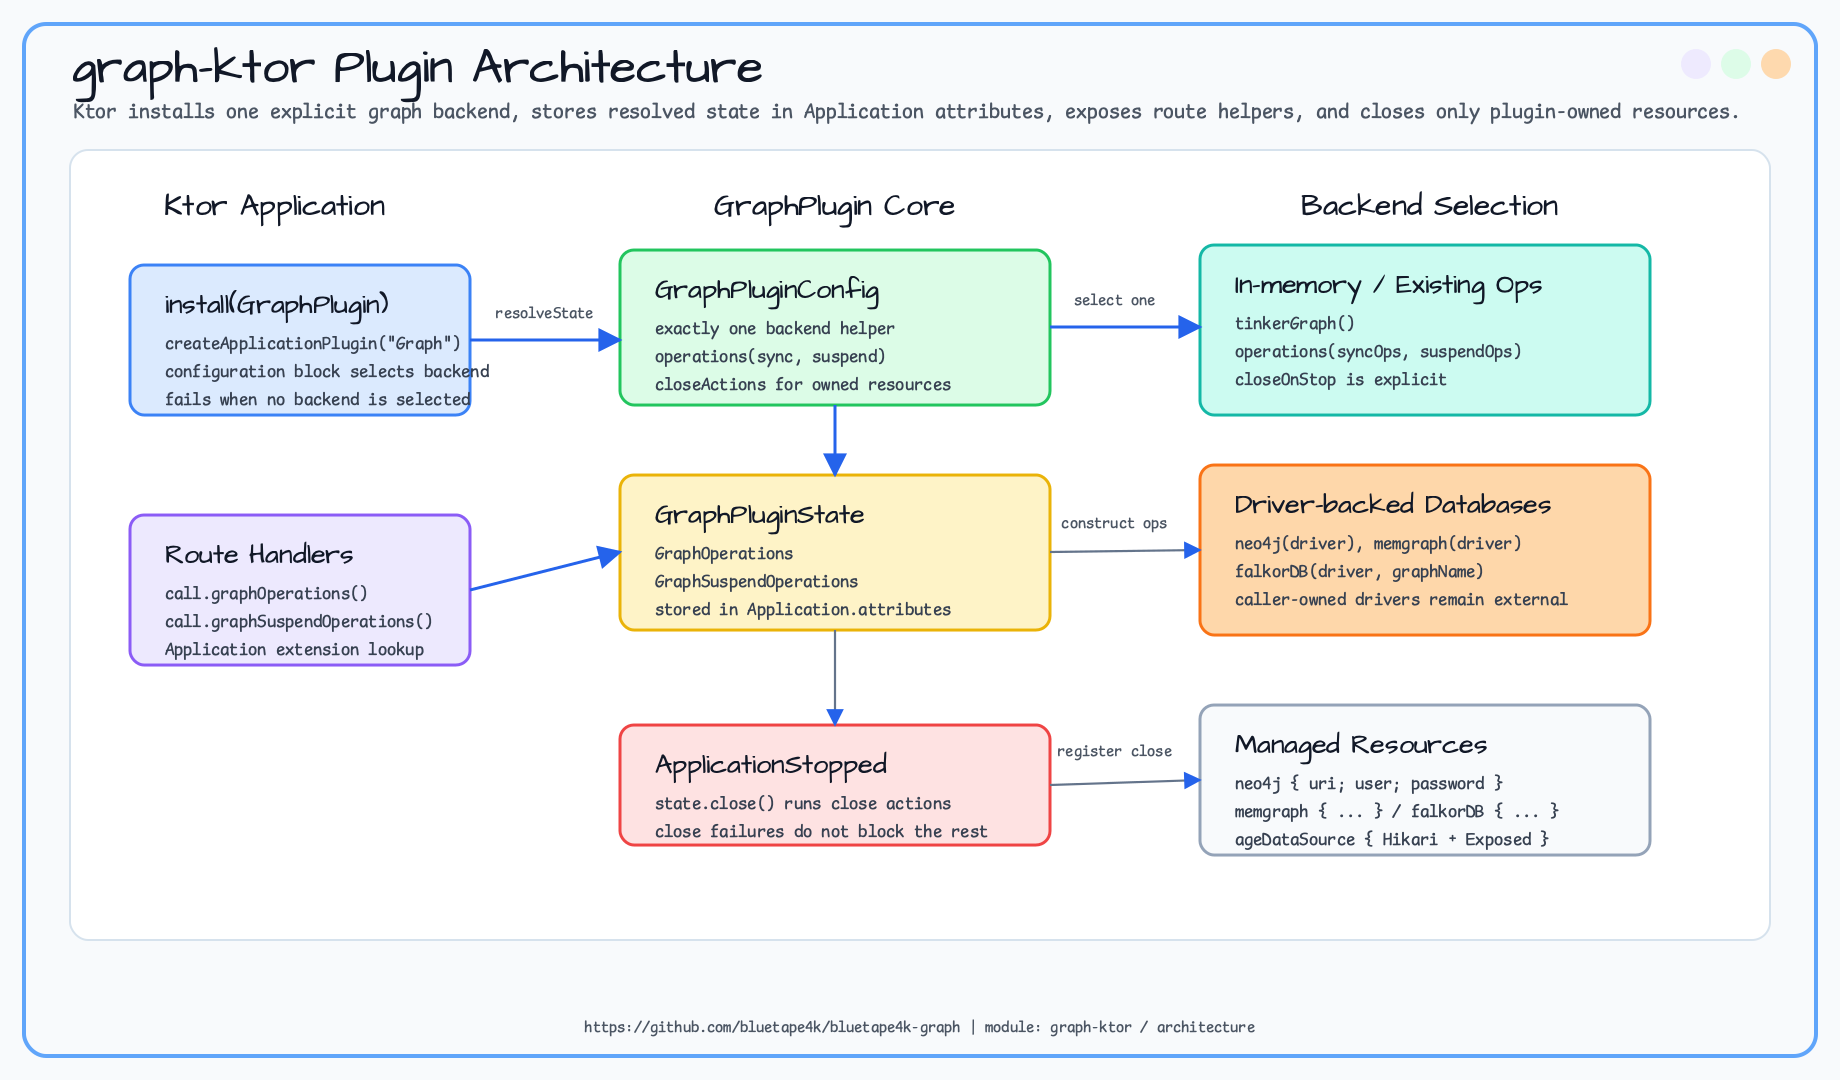
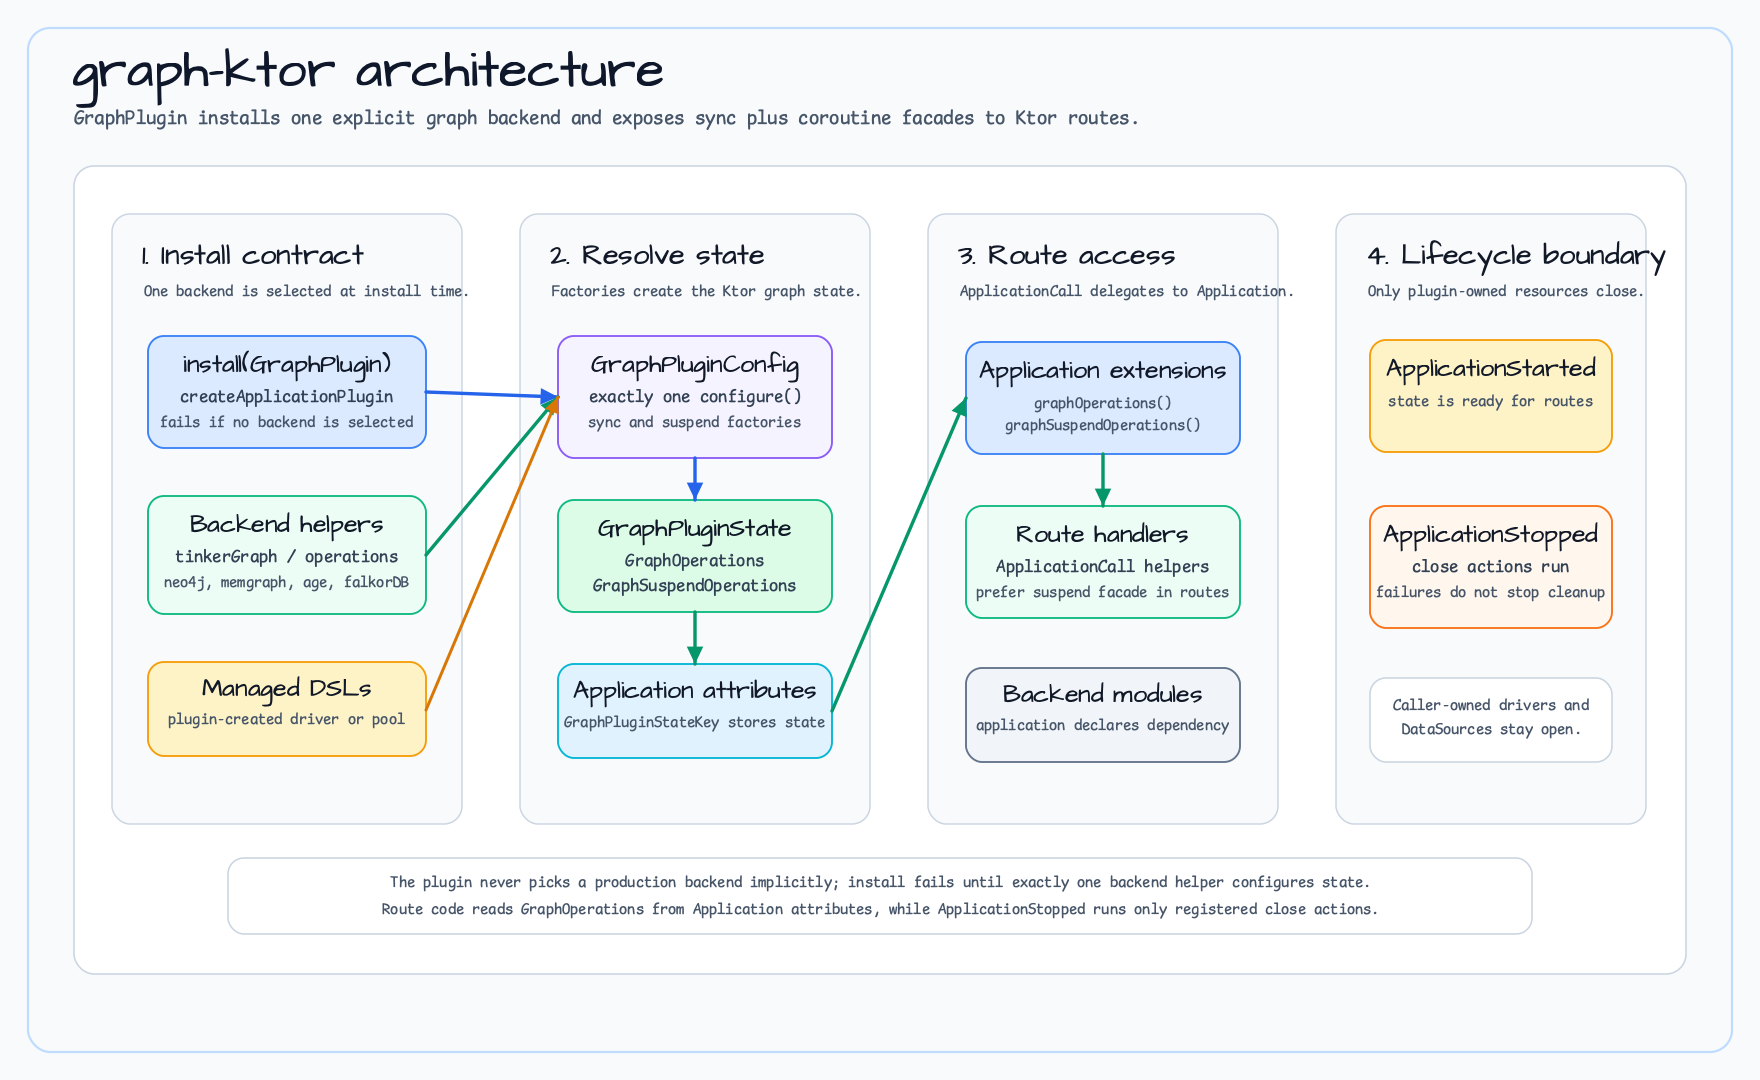
docs: explain graph-ktor lifecycle architecture
Constraint: graph-ktor docs must distinguish plugin-owned resources from caller-owned drivers and DataSources.

Rejected: Committing Ktor docs with Spring Boot docs | lifecycle boundaries differ and need separate review.

Confidence: high

Scope-risk: narrow

Directive: Keep Ktor diagrams centered on explicit backend install, Application attributes, route helpers, and close actions.

Tested: xmllint --noout docs/images/readme-diagrams/ktor-graph-ktor-architecture-01.svg; CairoSVG render via /Users/debop/.local/bin/cairosvg; PNG visual inspection; git diff --cached --check.

Not-tested: Ktor runtime tests were not run because this is documentation-only.

diff --git a/ktor/graph-ktor/README.ko.md b/ktor/graph-ktor/README.ko.md
@@ -9,6 +9,14 @@
 
 ![graph ktor Architecture diagram](../../docs/images/readme-diagrams/ktor-graph-ktor-architecture-01.png)
 
+`graph-ktor`는 Ktor application에 명시적으로 선택한 backend 하나를 설치하고, 해석된 graph state를 application attribute에 저장합니다:
+
+- `install(GraphPlugin) { ... }`은 sync/suspend graph facade를 구성하는 backend helper가 없으면 install 시점에 실패합니다.
+- Backend helper는 caller-owned resource를 감싸거나 managed DSL을 통해 plugin-owned driver/pool을 생성합니다.
+- `GraphPluginState`는 `GraphOperations`와 `GraphSuspendOperations`를 함께 노출합니다.
+- `Application` / `ApplicationCall` extension은 Ktor attribute에서 state를 읽으며, route handler에서는 suspend facade를 우선 사용합니다.
+- `ApplicationStopped`에서는 등록된 close action만 실행하므로 caller-owned driver와 `DataSource`는 plugin lifecycle 밖에 남습니다.
+
 ## 주요 기능
 
 - Ktor `createApplicationPlugin(...)` 기반 integration.

diff --git a/ktor/graph-ktor/README.md b/ktor/graph-ktor/README.md
@@ -8,6 +8,14 @@ Ktor 3.x plugin integration for `bluetape4k-graph`. It exposes `GraphOperations`
 
 ![graph ktor Architecture diagram](../../docs/images/readme-diagrams/ktor-graph-ktor-architecture-01.png)
 
+`graph-ktor` installs one explicit backend into Ktor and stores the resolved graph state in application attributes:
+
+- `install(GraphPlugin) { ... }` fails during install if no backend helper configures sync and suspend graph facades.
+- Backend helpers either wrap caller-owned resources or create plugin-owned drivers and pools through managed DSLs.
+- `GraphPluginState` exposes both `GraphOperations` and `GraphSuspendOperations`.
+- `Application` and `ApplicationCall` extensions read the state from Ktor attributes; route handlers should prefer the suspend facade.
+- On `ApplicationStopped`, only registered close actions run, so caller-owned drivers and `DataSource` instances remain outside the plugin lifecycle.
+
 ## Features
 
 - Ktor `createApplicationPlugin(...)` based integration.
